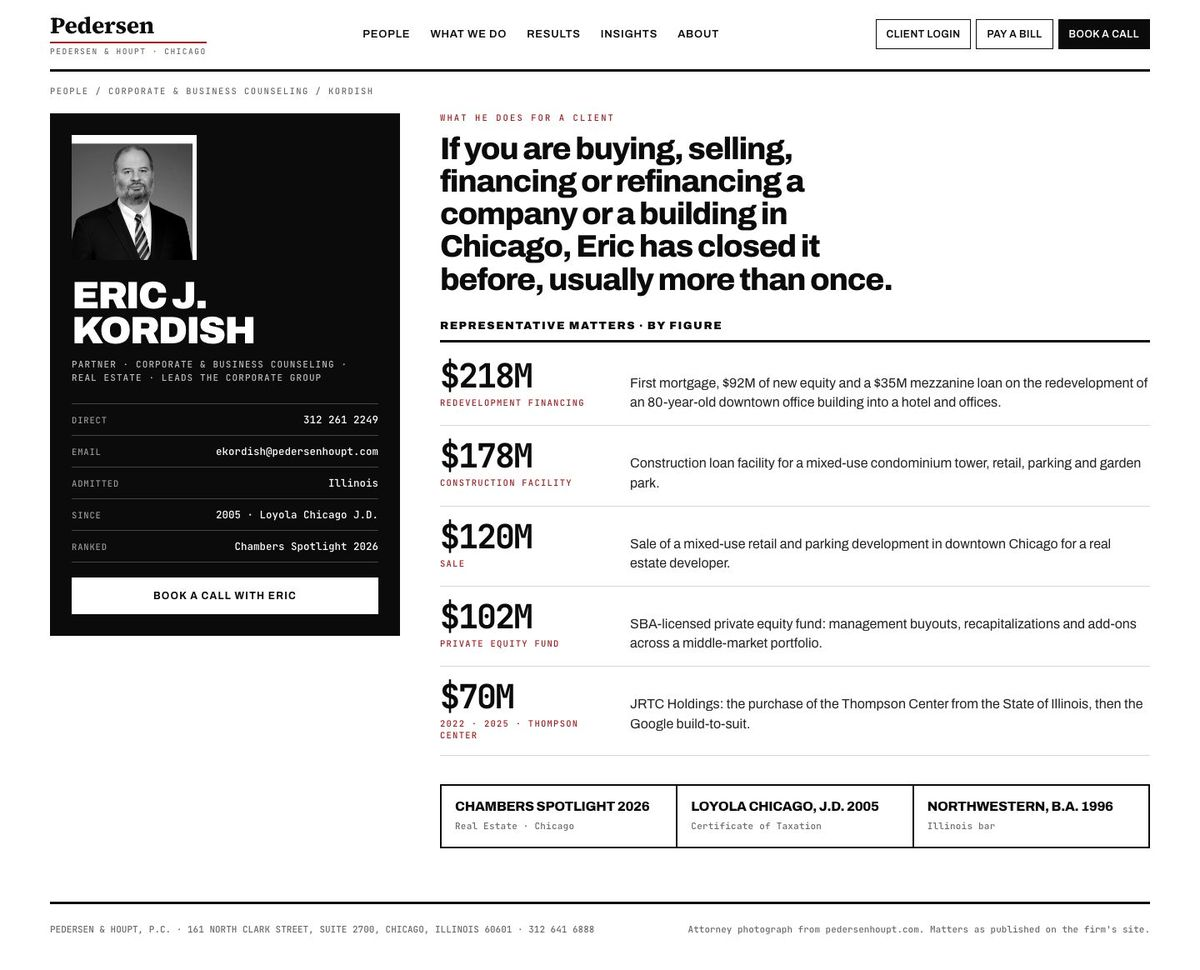
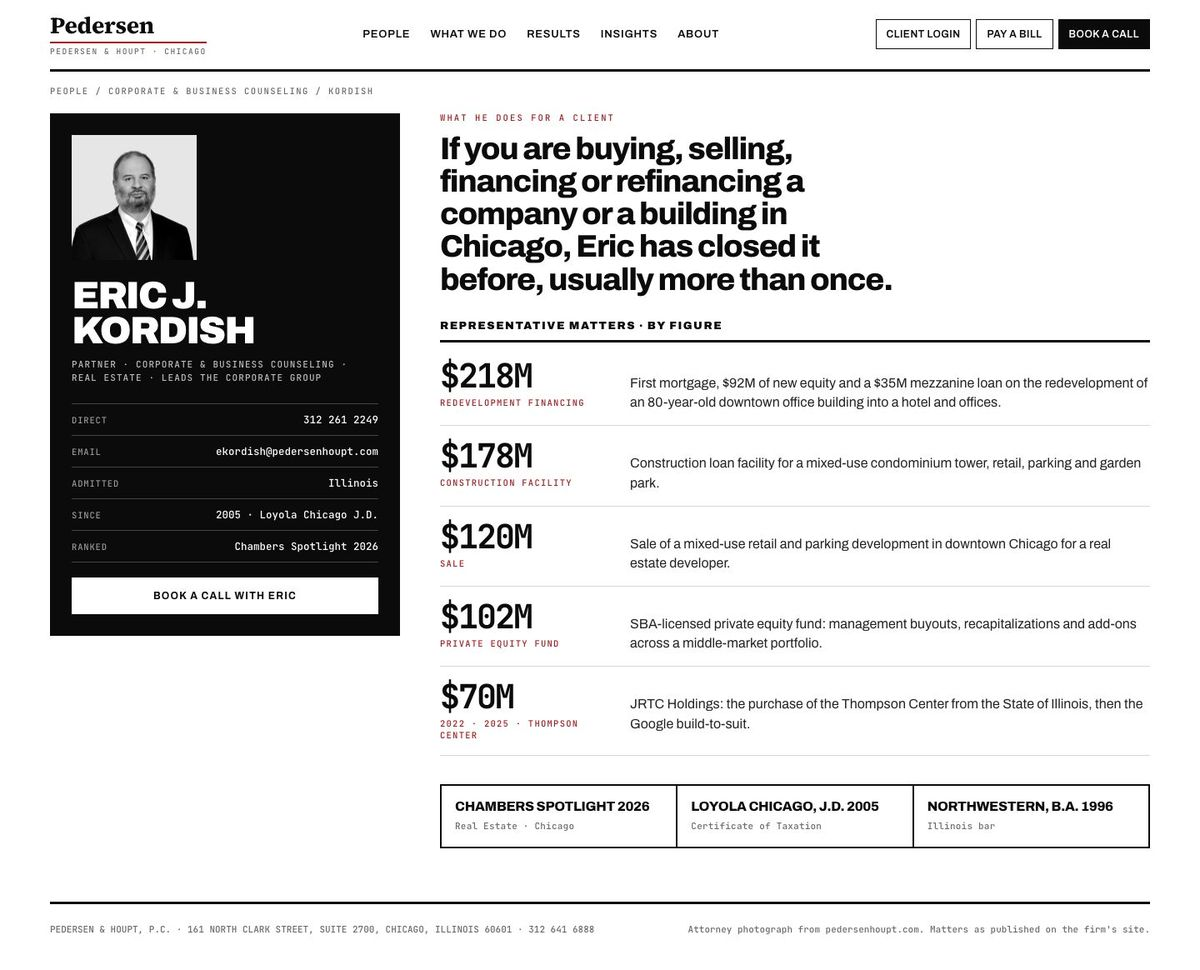
Pedersen demos: cut-out headshots on each direction's own paper (arched dark backdrop read as a headstone)

Changed region(s): [[0.0617, 0.1237, 0.185, 0.2784]]

diff --git a/Documents/Claude code/pedersen-houpt-site-audit/mock/counsel-home.html b/Documents/Claude code/pedersen-houpt-site-audit/mock/counsel-home.html
@@ -400,7 +400,9 @@
           padding: 24px 16px 0;
         }
       }
-    </style>
+    /* cutout portraits */
+.card .arch{background:#E9E3D7}.card img{object-fit:cover;object-position:center top;filter:grayscale(1) sepia(.4) contrast(1.02)}
+</style>
   </head>
   <body>
     <div class="demo-bar">
@@ -469,7 +471,7 @@
             <a class="card" href="#"
               ><div class="arch">
                 <img
-                  src="../img/mock/people/Brian-Collins.jpg"
+                  src="../img/mock/people/Brian-Collins-cut.png"
                   alt="Brian P. Collins"
                 />
               </div>
@@ -479,7 +481,7 @@
             <a class="card" href="#"
               ><div class="arch">
                 <img
-                  src="../img/mock/people/John-Muehlstein.jpg"
+                  src="../img/mock/people/John-Muehlstein-cut.png"
                   alt="John H. Muehlstein"
                 />
               </div>
@@ -489,7 +491,7 @@
             <a class="card" href="counsel-bio.html"
               ><div class="arch">
                 <img
-                  src="../img/mock/people/Eric-Kordish.jpg"
+                  src="../img/mock/people/Eric-Kordish-cut.png"
                   alt="Eric J. Kordish"
                 />
               </div>
@@ -499,7 +501,7 @@
             <a class="card" href="#"
               ><div class="arch">
                 <img
-                  src="../img/mock/people/Michael-Sullivan.jpg"
+                  src="../img/mock/people/Michael-Sullivan-cut.png"
                   alt="Michael P. Sullivan"
                 />
               </div>
@@ -509,7 +511,7 @@
             <a class="card" href="#"
               ><div class="arch">
                 <img
-                  src="../img/mock/people/Anthony-Pesce.jpg"
+                  src="../img/mock/people/Anthony-Pesce-cut.png"
                   alt="Anthony D. Pesce"
                 />
               </div>
@@ -519,7 +521,7 @@
             <a class="card" href="#"
               ><div class="arch">
                 <img
-                  src="../img/mock/people/Ashley-Czajkowski.jpg"
+                  src="../img/mock/people/Ashley-Czajkowski-cut.png"
                   alt="Ashley N. Czajkowski"
                 />
               </div>

diff --git a/Documents/Claude code/pedersen-houpt-site-audit/mock/place-home.html b/Documents/Claude code/pedersen-houpt-site-audit/mock/place-home.html
@@ -404,6 +404,8 @@
       }
     /* post-review fixes */
 .cta a,.tools a.pri{white-space:nowrap}@media(max-width:820px){.cta a{padding:12px 14px;font-size:14px}.tools a.pri{padding:8px 10px;font-size:12px}}
+/* cutout portraits */
+.card .ph{background:#E7E1D5}.card img{object-fit:cover;object-position:center top;filter:grayscale(1) sepia(.32) contrast(1.05)}
 </style>
   </head>
   <body>
@@ -497,7 +499,7 @@
           <a class="card" href="#"
             ><div class="ph">
               <img
-                src="../img/mock/people/Brian-Collins.jpg"
+                src="../img/mock/people/Brian-Collins-cut.png"
                 alt="Brian P. Collins"
               />
             </div>
@@ -507,7 +509,7 @@
           <a class="card" href="#"
             ><div class="ph">
               <img
-                src="../img/mock/people/John-Muehlstein.jpg"
+                src="../img/mock/people/John-Muehlstein-cut.png"
                 alt="John H. Muehlstein"
               />
             </div>
@@ -517,7 +519,7 @@
           <a class="card" href="place-bio.html"
             ><div class="ph">
               <img
-                src="../img/mock/people/Eric-Kordish.jpg"
+                src="../img/mock/people/Eric-Kordish-cut.png"
                 alt="Eric J. Kordish"
               />
             </div>
@@ -527,7 +529,7 @@
           <a class="card" href="#"
             ><div class="ph">
               <img
-                src="../img/mock/people/Michael-Sullivan.jpg"
+                src="../img/mock/people/Michael-Sullivan-cut.png"
                 alt="Michael P. Sullivan"
               />
             </div>
@@ -537,7 +539,7 @@
           <a class="card" href="#"
             ><div class="ph">
               <img
-                src="../img/mock/people/Anthony-Pesce.jpg"
+                src="../img/mock/people/Anthony-Pesce-cut.png"
                 alt="Anthony D. Pesce"
               />
             </div>
@@ -547,7 +549,7 @@
           <a class="card" href="#"
             ><div class="ph">
               <img
-                src="../img/mock/people/Ashley-Czajkowski.jpg"
+                src="../img/mock/people/Ashley-Czajkowski-cut.png"
                 alt="Ashley N. Czajkowski"
               />
             </div>

diff --git a/Documents/Claude code/pedersen-houpt-site-audit/mock/ledger-home.html b/Documents/Claude code/pedersen-houpt-site-audit/mock/ledger-home.html
@@ -459,6 +459,8 @@
       }
     /* post-review fixes */
 @media(max-width:820px){.hero h1{font-size:50px}.cta a{padding:13px 14px;font-size:12px}}
+/* cutout portraits */
+.card .ph{background:#E9E9E9}.card img{object-fit:cover;object-position:center top;filter:grayscale(1) contrast(1.15)}
 </style>
   </head>
   <body>
@@ -564,7 +566,7 @@
           <a class="card" href="#"
             ><div class="ph">
               <img
-                src="../img/mock/people/Brian-Collins.jpg"
+                src="../img/mock/people/Brian-Collins-cut.png"
                 alt="Brian P. Collins"
               />
             </div>
@@ -574,7 +576,7 @@
           <a class="card" href="#"
             ><div class="ph">
               <img
-                src="../img/mock/people/John-Muehlstein.jpg"
+                src="../img/mock/people/John-Muehlstein-cut.png"
                 alt="John H. Muehlstein"
               />
             </div>
@@ -584,7 +586,7 @@
           <a class="card" href="ledger-bio.html"
             ><div class="ph">
               <img
-                src="../img/mock/people/Eric-Kordish.jpg"
+                src="../img/mock/people/Eric-Kordish-cut.png"
                 alt="Eric J. Kordish"
               />
             </div>
@@ -594,7 +596,7 @@
           <a class="card" href="#"
             ><div class="ph">
               <img
-                src="../img/mock/people/Michael-Sullivan.jpg"
+                src="../img/mock/people/Michael-Sullivan-cut.png"
                 alt="Michael P. Sullivan"
               />
             </div>
@@ -604,7 +606,7 @@
           <a class="card" href="#"
             ><div class="ph">
               <img
-                src="../img/mock/people/Anthony-Pesce.jpg"
+                src="../img/mock/people/Anthony-Pesce-cut.png"
                 alt="Anthony D. Pesce"
               />
             </div>
@@ -614,7 +616,7 @@
           <a class="card" href="#"
             ><div class="ph">
               <img
-                src="../img/mock/people/Ashley-Czajkowski.jpg"
+                src="../img/mock/people/Ashley-Czajkowski-cut.png"
                 alt="Ashley N. Czajkowski"
               />
             </div>

diff --git a/Documents/Claude code/pedersen-houpt-site-audit/mock/place-bio.html b/Documents/Claude code/pedersen-houpt-site-audit/mock/place-bio.html
@@ -319,6 +319,8 @@
       }
     /* post-review fixes */
 .tools a.pri{white-space:nowrap}@media(max-width:820px){.tools a.pri{padding:8px 10px;font-size:12px}}
+/* cutout portraits */
+.portrait{background:#E7E1D5}.portrait img{object-fit:cover;object-position:center top}
 </style>
   </head>
   <body>
@@ -355,7 +357,7 @@
         <div>
           <div class="portrait">
             <img
-              src="../img/mock/people/Eric-Kordish.jpg"
+              src="../img/mock/people/Eric-Kordish-cut.png"
               alt="Eric J. Kordish"
             /><span>Current headshot · the photo day replaces it</span>
           </div>

diff --git a/Documents/Claude code/pedersen-houpt-site-audit/mock/counsel-bio.html b/Documents/Claude code/pedersen-houpt-site-audit/mock/counsel-bio.html
@@ -324,7 +324,9 @@
           padding: 24px 16px 0;
         }
       }
-    </style>
+    /* cutout portraits */
+.arch{background:#E9E3D7}.arch img{object-fit:cover;object-position:center top}
+</style>
   </head>
   <body>
     <div class="demo-bar">
@@ -355,7 +357,7 @@
         <section class="bio">
           <div class="arch">
             <img
-              src="../img/mock/people/Eric-Kordish.jpg"
+              src="../img/mock/people/Eric-Kordish-cut.png"
               alt="Eric J. Kordish"
             />
           </div>

diff --git a/Documents/Claude code/pedersen-houpt-site-audit/mock/ledger-bio.html b/Documents/Claude code/pedersen-houpt-site-audit/mock/ledger-bio.html
@@ -312,7 +312,9 @@
           gap: 8px;
         }
       }
-    </style>
+    /* cutout portraits */
+.card .ph{background:#E6E6E6}.card img{object-fit:cover;object-position:center top}
+</style>
   </head>
   <body>
     <div class="demo-bar">
@@ -346,7 +348,7 @@
         <div class="card">
           <div class="ph">
             <img
-              src="../img/mock/people/Eric-Kordish.jpg"
+              src="../img/mock/people/Eric-Kordish-cut.png"
               alt="Eric J. Kordish"
             />
           </div>
